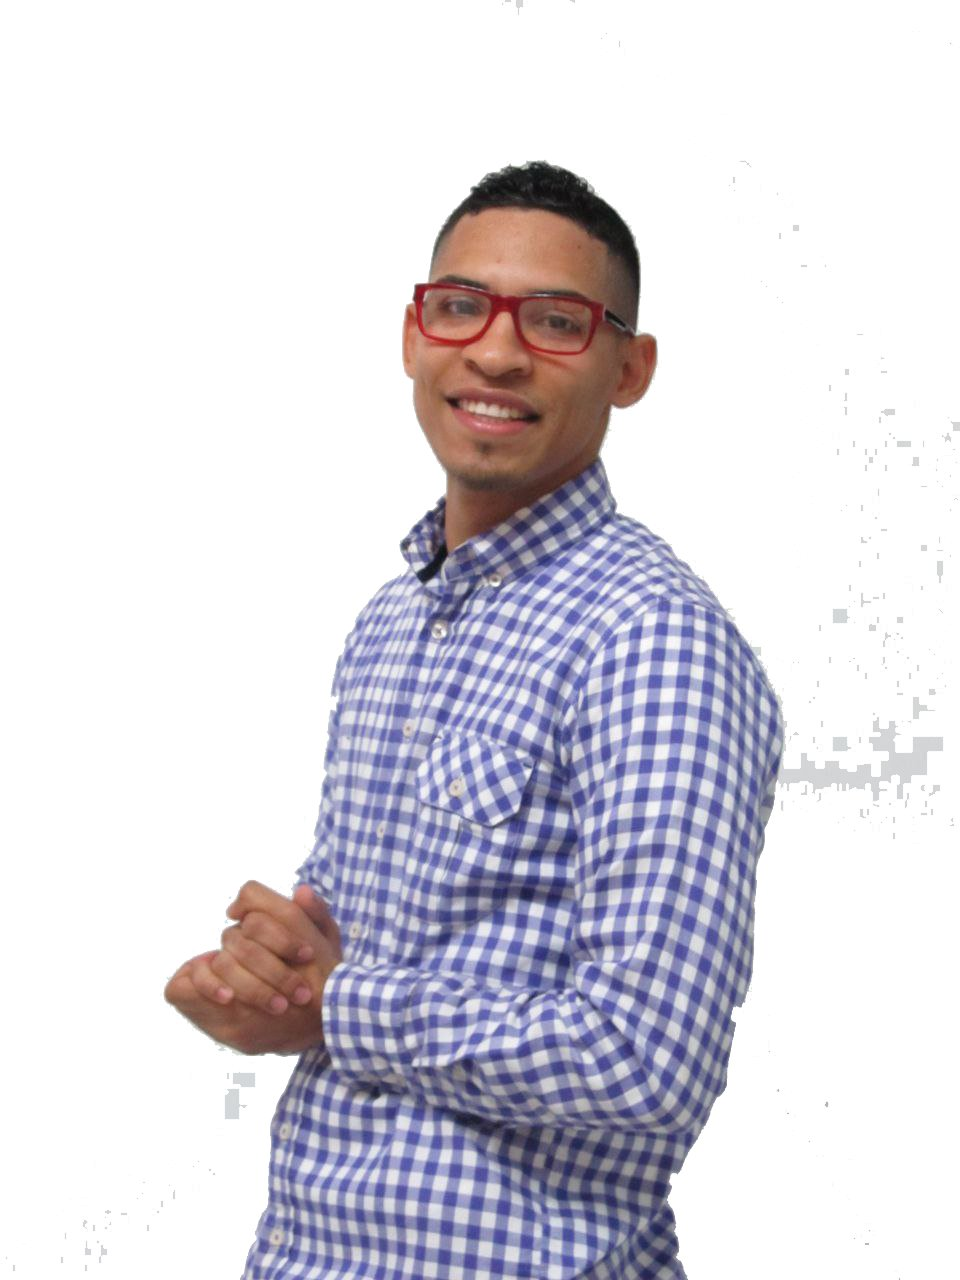
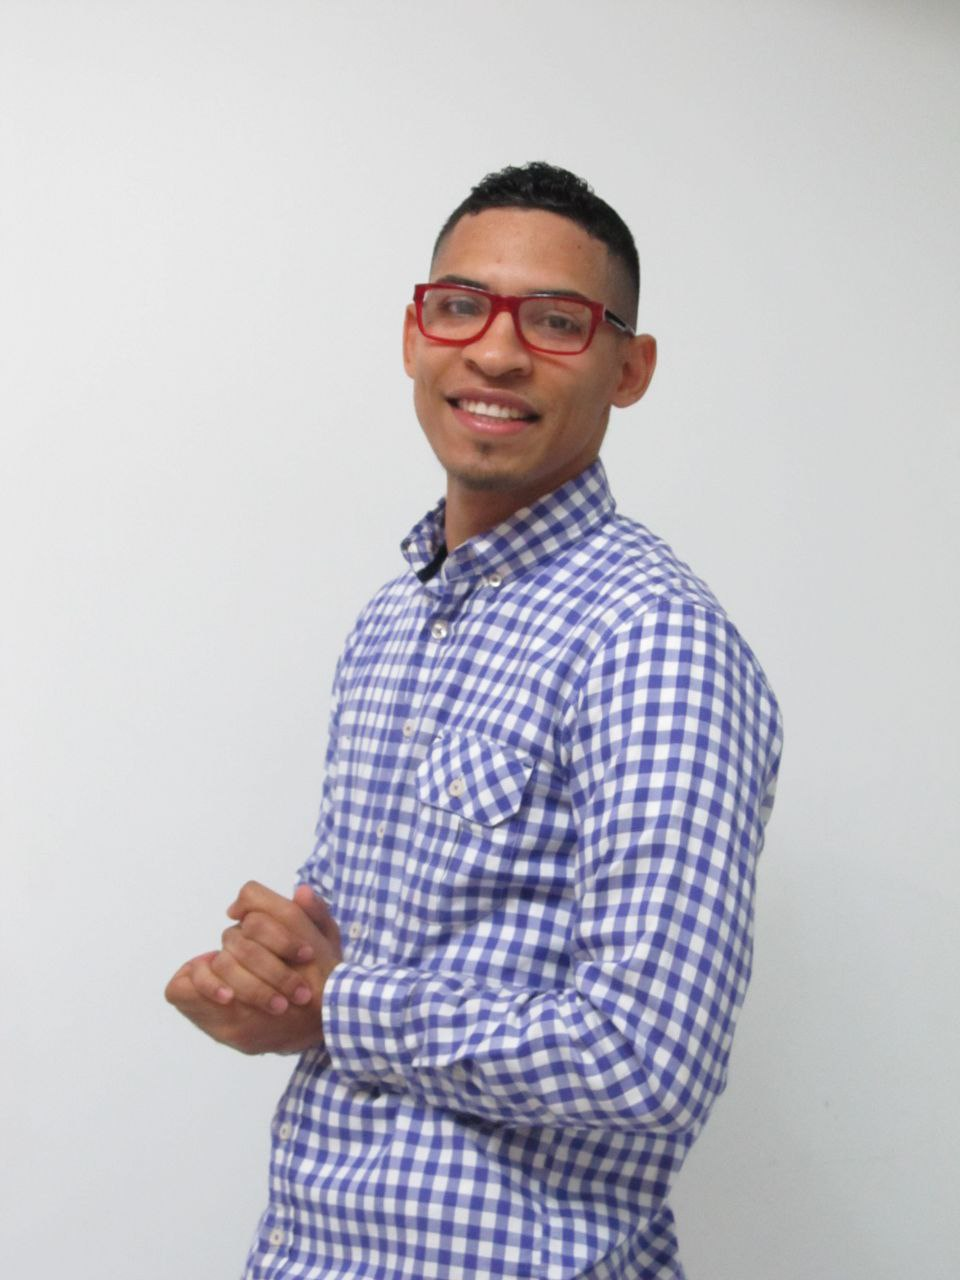
se agrega foto

diff --git a/src/potafolio/Home.jsx b/src/potafolio/Home.jsx
@@ -1,12 +1,9 @@
 import Navbar from "./Navbar";
 import Contact from "./Contact";
 import styled from "@emotion/styled";
-
-
+import Foto from "./Foto";
 
 const Home = () => {
- 
-  
   return (
     <>
       <Navbar />
@@ -26,6 +23,7 @@ const Home = () => {
                 <div className="redes__sociales2 d-flex">
                   <a
                     href="https://www.linkedin.com/in/marcofern%C3%A1ndez/"
+                    target="_blank"
                     className="sociales linkedIn"
                   >
                     <svg
@@ -42,6 +40,7 @@ const Home = () => {
                   </a>
                   <a
                     href="https://github.com/afmarquinho"
+                    target="_blank"
                     className="sociales github"
                   >
                     <svg
@@ -57,22 +56,35 @@ const Home = () => {
                     </svg>
                   </a>
                   <a
-                    href="https://api.whatsapp.com/send?phone=573187794472&text=¡Hola,%20estoy%20interesado%20en%20tu%20portafolio?"
-                    className="sociales whatsapp"
+                    href="https://t.me/Marquinhos365"
+                    target="_blank"
+                    className="sociales telegram"
                   >
-                    <svg
+                      <svg
                       xmlns="http://www.w3.org/2000/svg"
+                      aria-label="Telegram"
+                      role="img"
                       width="24"
                       height="24"
-                      viewBox="0 0 24 24"
+                      viewBox="0 0 512 512"
                     >
+                      <rect width="512" height="512" rx="15%" fill="#eab224" />
                       <path
-                        d="M12.036 5.339c-3.635 0-6.591 2.956-6.593 6.589-.001 1.483.434 2.594 1.164 3.756l-.666 2.432 2.494-.654c1.117.663 2.184 1.061 3.595 1.061 3.632 0 6.591-2.956 6.592-6.59.003-3.641-2.942-6.593-6.586-6.594zm3.876 9.423c-.165.463-.957.885-1.337.942-.341.051-.773.072-1.248-.078-.288-.091-.657-.213-1.129-.417-1.987-.858-3.285-2.859-3.384-2.991-.099-.132-.809-1.074-.809-2.049 0-.975.512-1.454.693-1.653.182-.2.396-.25.528-.25l.38.007c.122.006.285-.046.446.34.165.397.561 1.372.611 1.471.049.099.083.215.016.347-.066.132-.099.215-.198.33l-.297.347c-.099.099-.202.206-.087.404.116.198.513.847 1.102 1.372.757.675 1.395.884 1.593.983.198.099.314.083.429-.05.116-.132.495-.578.627-.777s.264-.165.446-.099 1.156.545 1.354.645c.198.099.33.149.38.231.049.085.049.482-.116.945zm3.088-14.762h-14c-2.761 0-5 2.239-5 5v14c0 2.761 2.239 5 5 5h14c2.762 0 5-2.239 5-5v-14c0-2.761-2.238-5-5-5zm-6.967 19.862c-1.327 0-2.634-.333-3.792-.965l-4.203 1.103 1.125-4.108c-.694-1.202-1.059-2.566-1.058-3.964.002-4.372 3.558-7.928 7.928-7.928 2.121.001 4.112.827 5.609 2.325s2.321 3.491 2.32 5.609c-.002 4.372-3.559 7.928-7.929 7.928z"
-                        fill="#eab224"
+                        fill="#07070f"
+                        d="M199 404c-11 0-10-4-13-14l-32-105 245-144"
+                      />
+                      <path
+                        fill="#07070f"
+                        d="M199 404c7 0 11-4 16-8l45-43-56-34"
+                      />
+                      <path
+                        fill="#07070f"
+                        d="M204 319l135 99c14 9 26 4 30-14l55-258c5-22-9-32-24-25L79 245c-21 8-21 21-4 26l83 26 190-121c9-5 17-3 11 4"
                       />
                     </svg>
                   </a>
                 </div>
+                <Foto/>
               </div>
             </aside>
             <section className="col-12 col-lg-5 col-xl-6 ">

diff --git a/src/potafolio/Foto.jsx b/src/potafolio/Foto.jsx
@@ -1,0 +1,58 @@
+import { styled } from "styled-components";
+import foto from "../assets/foto.png";
+
+const Foto = () => {
+  return (
+    <FotoContenedor className="foto-contenedor">
+      <Subcontenendor>
+        <img src={foto} alt="" />
+      </Subcontenendor>
+    </FotoContenedor>
+  );
+};
+
+export default Foto;
+const FotoContenedor = styled.div`
+  width: 25rem;
+  height: 16rem;
+  position: relative;
+  border-radius: 10px;
+  background-color: #07070f;
+  margin-top: 1rem;
+
+  &::before,
+  &::after {
+    content: "";
+    position: absolute;
+    width: 100%;
+    height: 100%;
+    transform: scale(1.02);
+    border-radius: 10px;
+  }
+
+  &::before {
+    left: 0;
+    bottom: 0;
+    z-index: -1;
+    background: linear-gradient(to right top, transparent 80%, #00c3ff);
+  }
+  &::after {
+    right: 0;
+    top: 0;
+    z-index: -1;
+    background: linear-gradient(to left bottom, transparent 80%, #00c3ff);
+  }
+
+  
+`;
+const Subcontenendor = styled.div`
+  width: 100%;
+  height: 100%;
+  overflow: hidden;
+  img {
+    margin: 0;
+    object-position: 25px -30px;
+    object-fit: cover;
+    width: 80%;
+  }
+`;

diff --git a/src/potafolio/Contact.jsx b/src/potafolio/Contact.jsx
@@ -48,7 +48,7 @@ const Contact = () => {
     } catch (error) {
       console.log(error);
     }
-  
+  // TODO: ARREGLAR EL ACCESO A LOS ICONOS Y LA FOTO
   };
   return (
     <>

diff --git a/README.md b/README.md
@@ -1,1 +1,1 @@
- https://neon-horse-530915.netlify.app/
+https://portfolio-af-marco.netlify.app/
